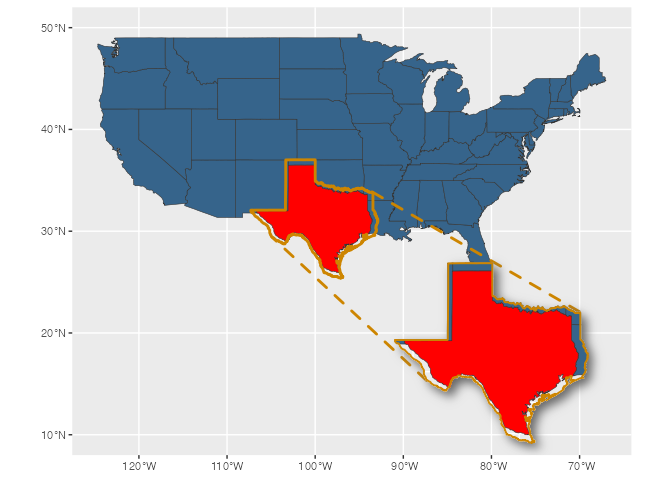
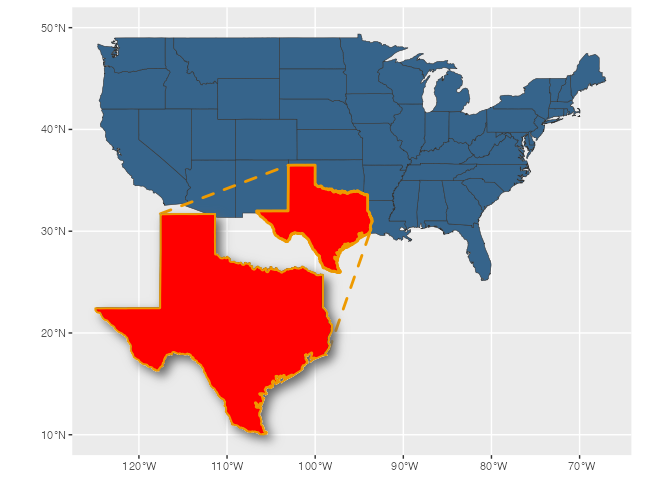
Improve README

diff --git a/README.md b/README.md
@@ -108,24 +108,33 @@ library(dplyr)
 #> 
 #>     intersect, setdiff, setequal, union
 
-humans <- starwars |> 
-  filter(species == "Human") |> 
-  select(mass, height) |> 
-  na.omit()
-
-starwars |> 
-  na.omit() |> 
+starwars_plot <- starwars |> 
   mutate(Human = species == "Human") |> 
-ggplot(aes(mass, height, color = Human)) + 
-  geom_point() + xlim(0, 220) + ylim(0, 250) + 
-  theme_dark() + 
-  scale_colour_manual(values = c("TRUE" = "red", "FALSE" = "white")) + 
+  select(mass, height, Human) |> 
+  na.omit() |> 
+  ggplot(aes(mass, height, color = Human)) + 
+    geom_point() + xlim(0, 220) + ylim(0, 250) + 
+    theme_dark() +
+    theme(panel.grid = element_line(linetype = 2, colour = "yellow"), 
+          axis.line = element_blank(), 
+          panel.background = element_rect(fill = "black"),
+          legend.key = element_rect(fill= "black"),
+          rect = element_rect(fill = "black"),
+          text = element_text(colour = "white")) +
+    scale_colour_manual(values = c("TRUE" = "red", "FALSE" = "lightblue"))
+
+starwars_plot +
+  ggtitle("Mass and height of starwars characters.",
+          subtitle = "Humans magnified") +
   geom_magnify(aes(from = Human), to = c(30, 0, 200, 120), shadow = TRUE,
+               shadow.args = list(colour = "yellow", sigma = 10,
+                                  x_offset = 2, y_offset = 5),
                alpha = 0.8, colour = "yellow", linewidth = 0.6, shape = "hull",
                expand = 0.2)
+#> Warning: Removed 1 rows containing missing values (`geom_point()`).
 ```
 
-<img src="man/figures/README-example-mask-grob-1.png" width="100%" />
+<img src="man/figures/README-example-hull-1.png" width="100%" />
 
 ## Maps (experimental)
 
@@ -145,9 +154,9 @@ texas <- sf::st_transform(texas, sf::st_crs(4326))
 texas <- sf::st_as_grob(sf::st_as_sfc(texas))
 
 ggpm + geom_magnify(from = texas,
-                    to = c(-90, 10, -70, 30), 
-                    shadow = TRUE, linewidth = 1, colour = "orange3",
-                    aspect = "fixed") # keep aspect ratio the same
+                    to = c(-125, 10, -98, 30), 
+                    shadow = TRUE, linewidth = 1, colour = "orange2",
+                    aspect = "fixed", expand = 0) # keep aspect ratio the same
 ```
 
 <img src="man/figures/README-example-map-1.png" width="100%" />
